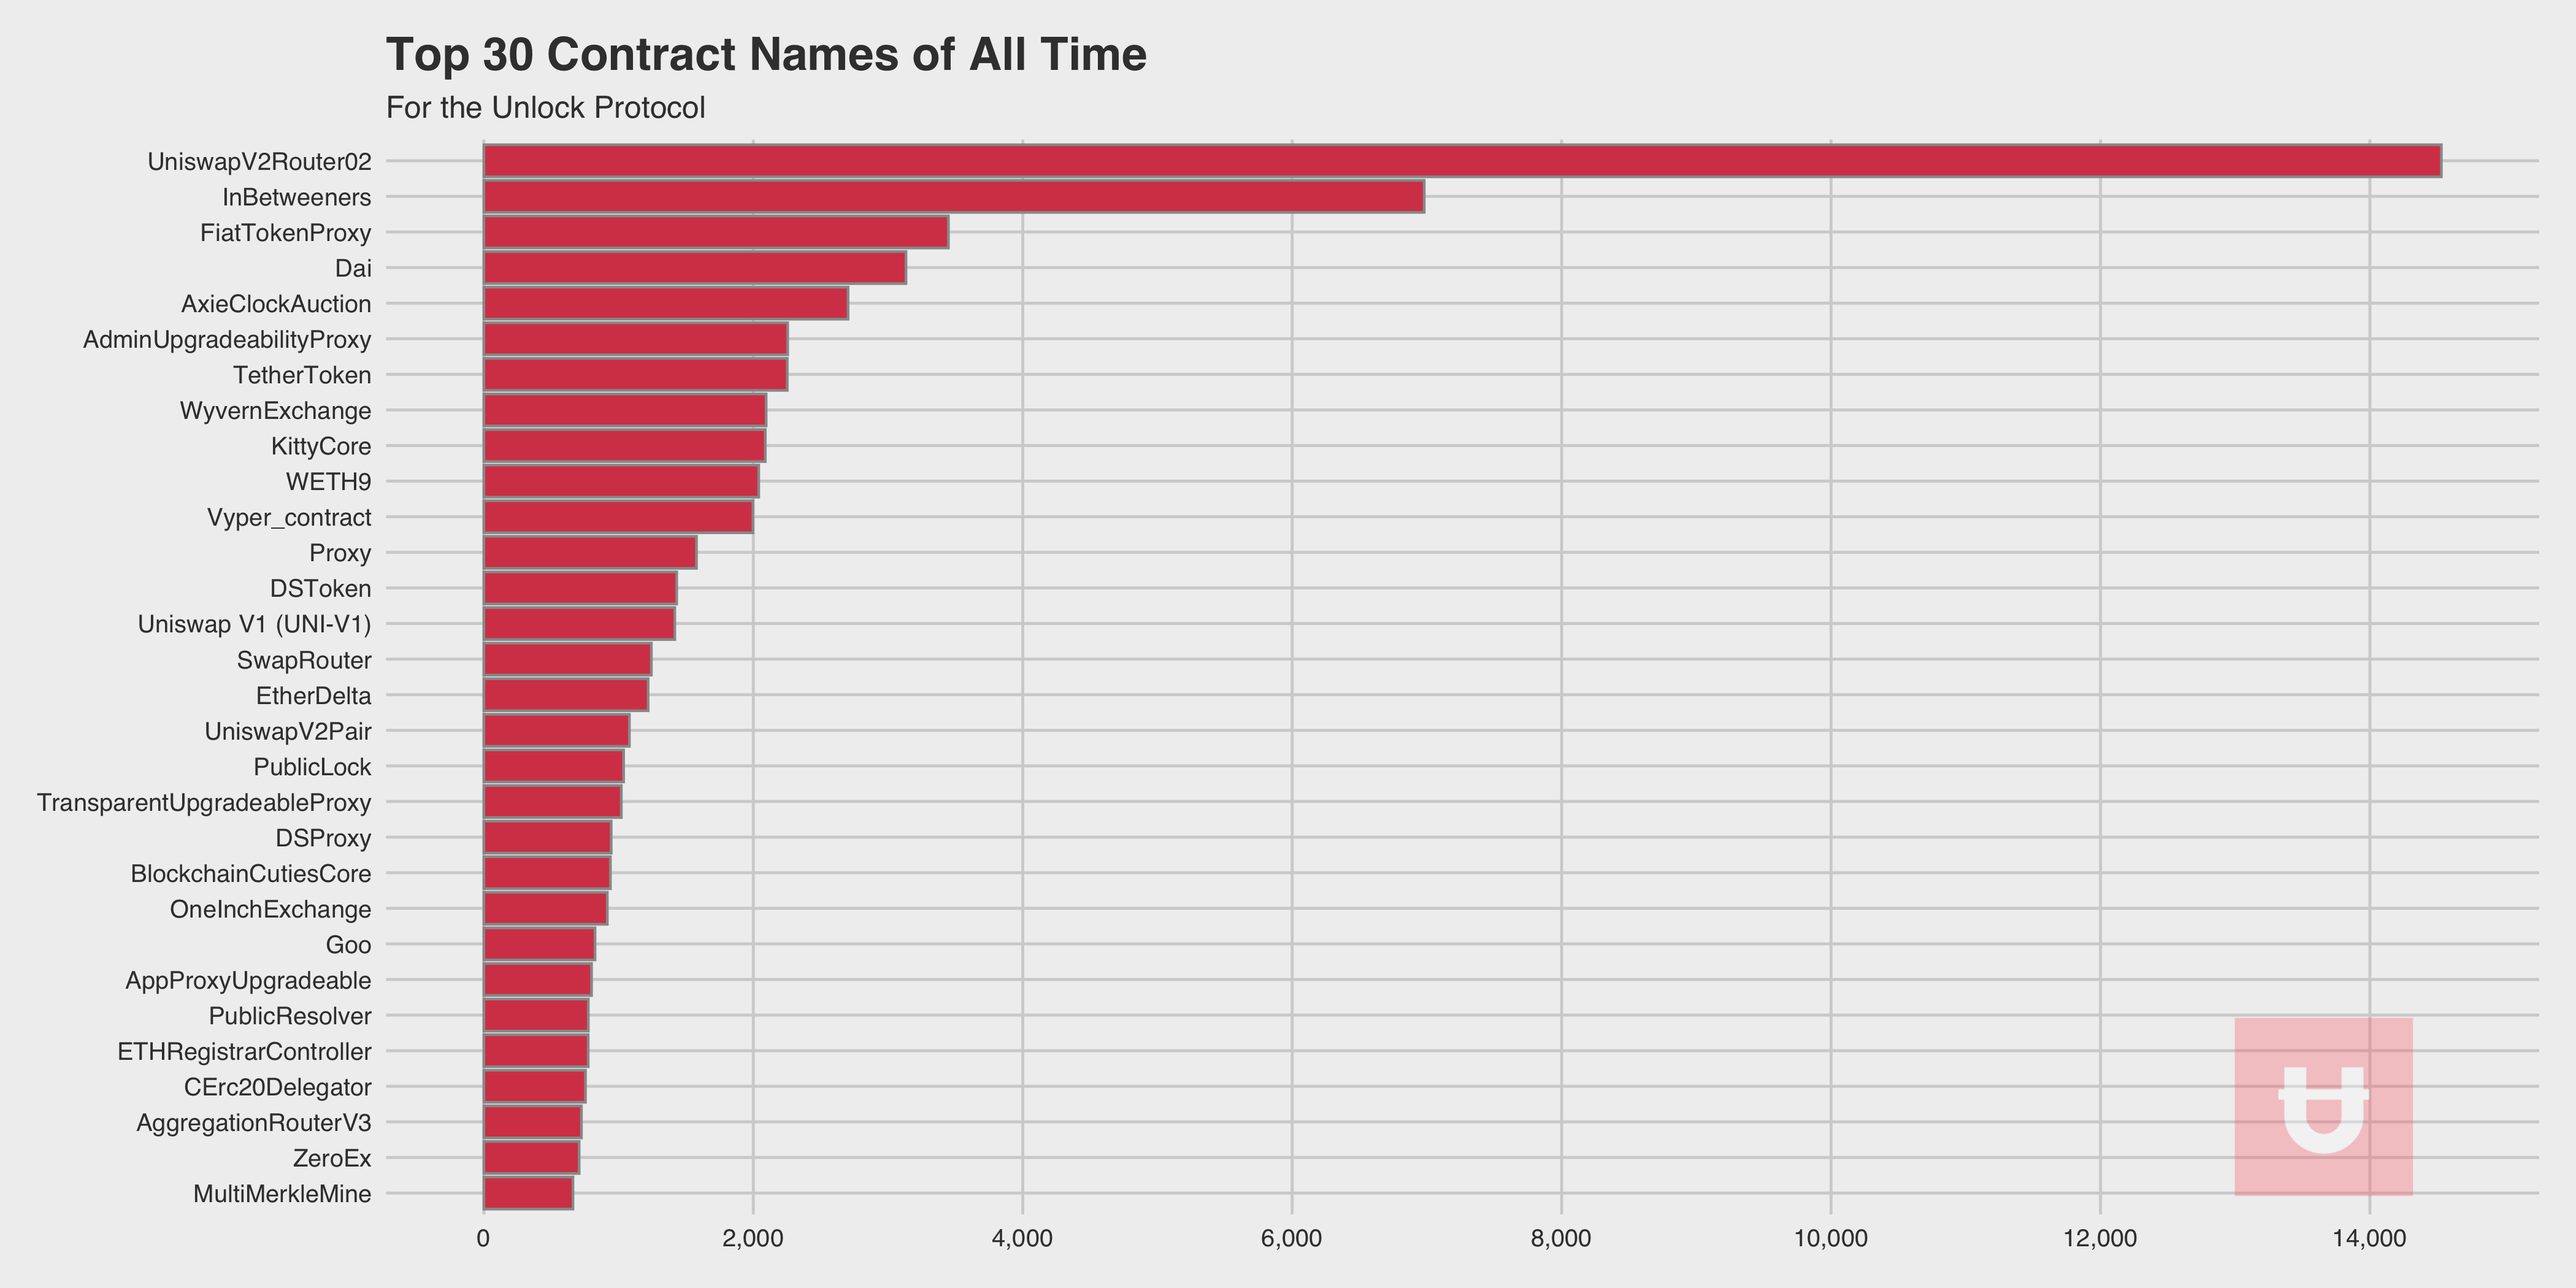
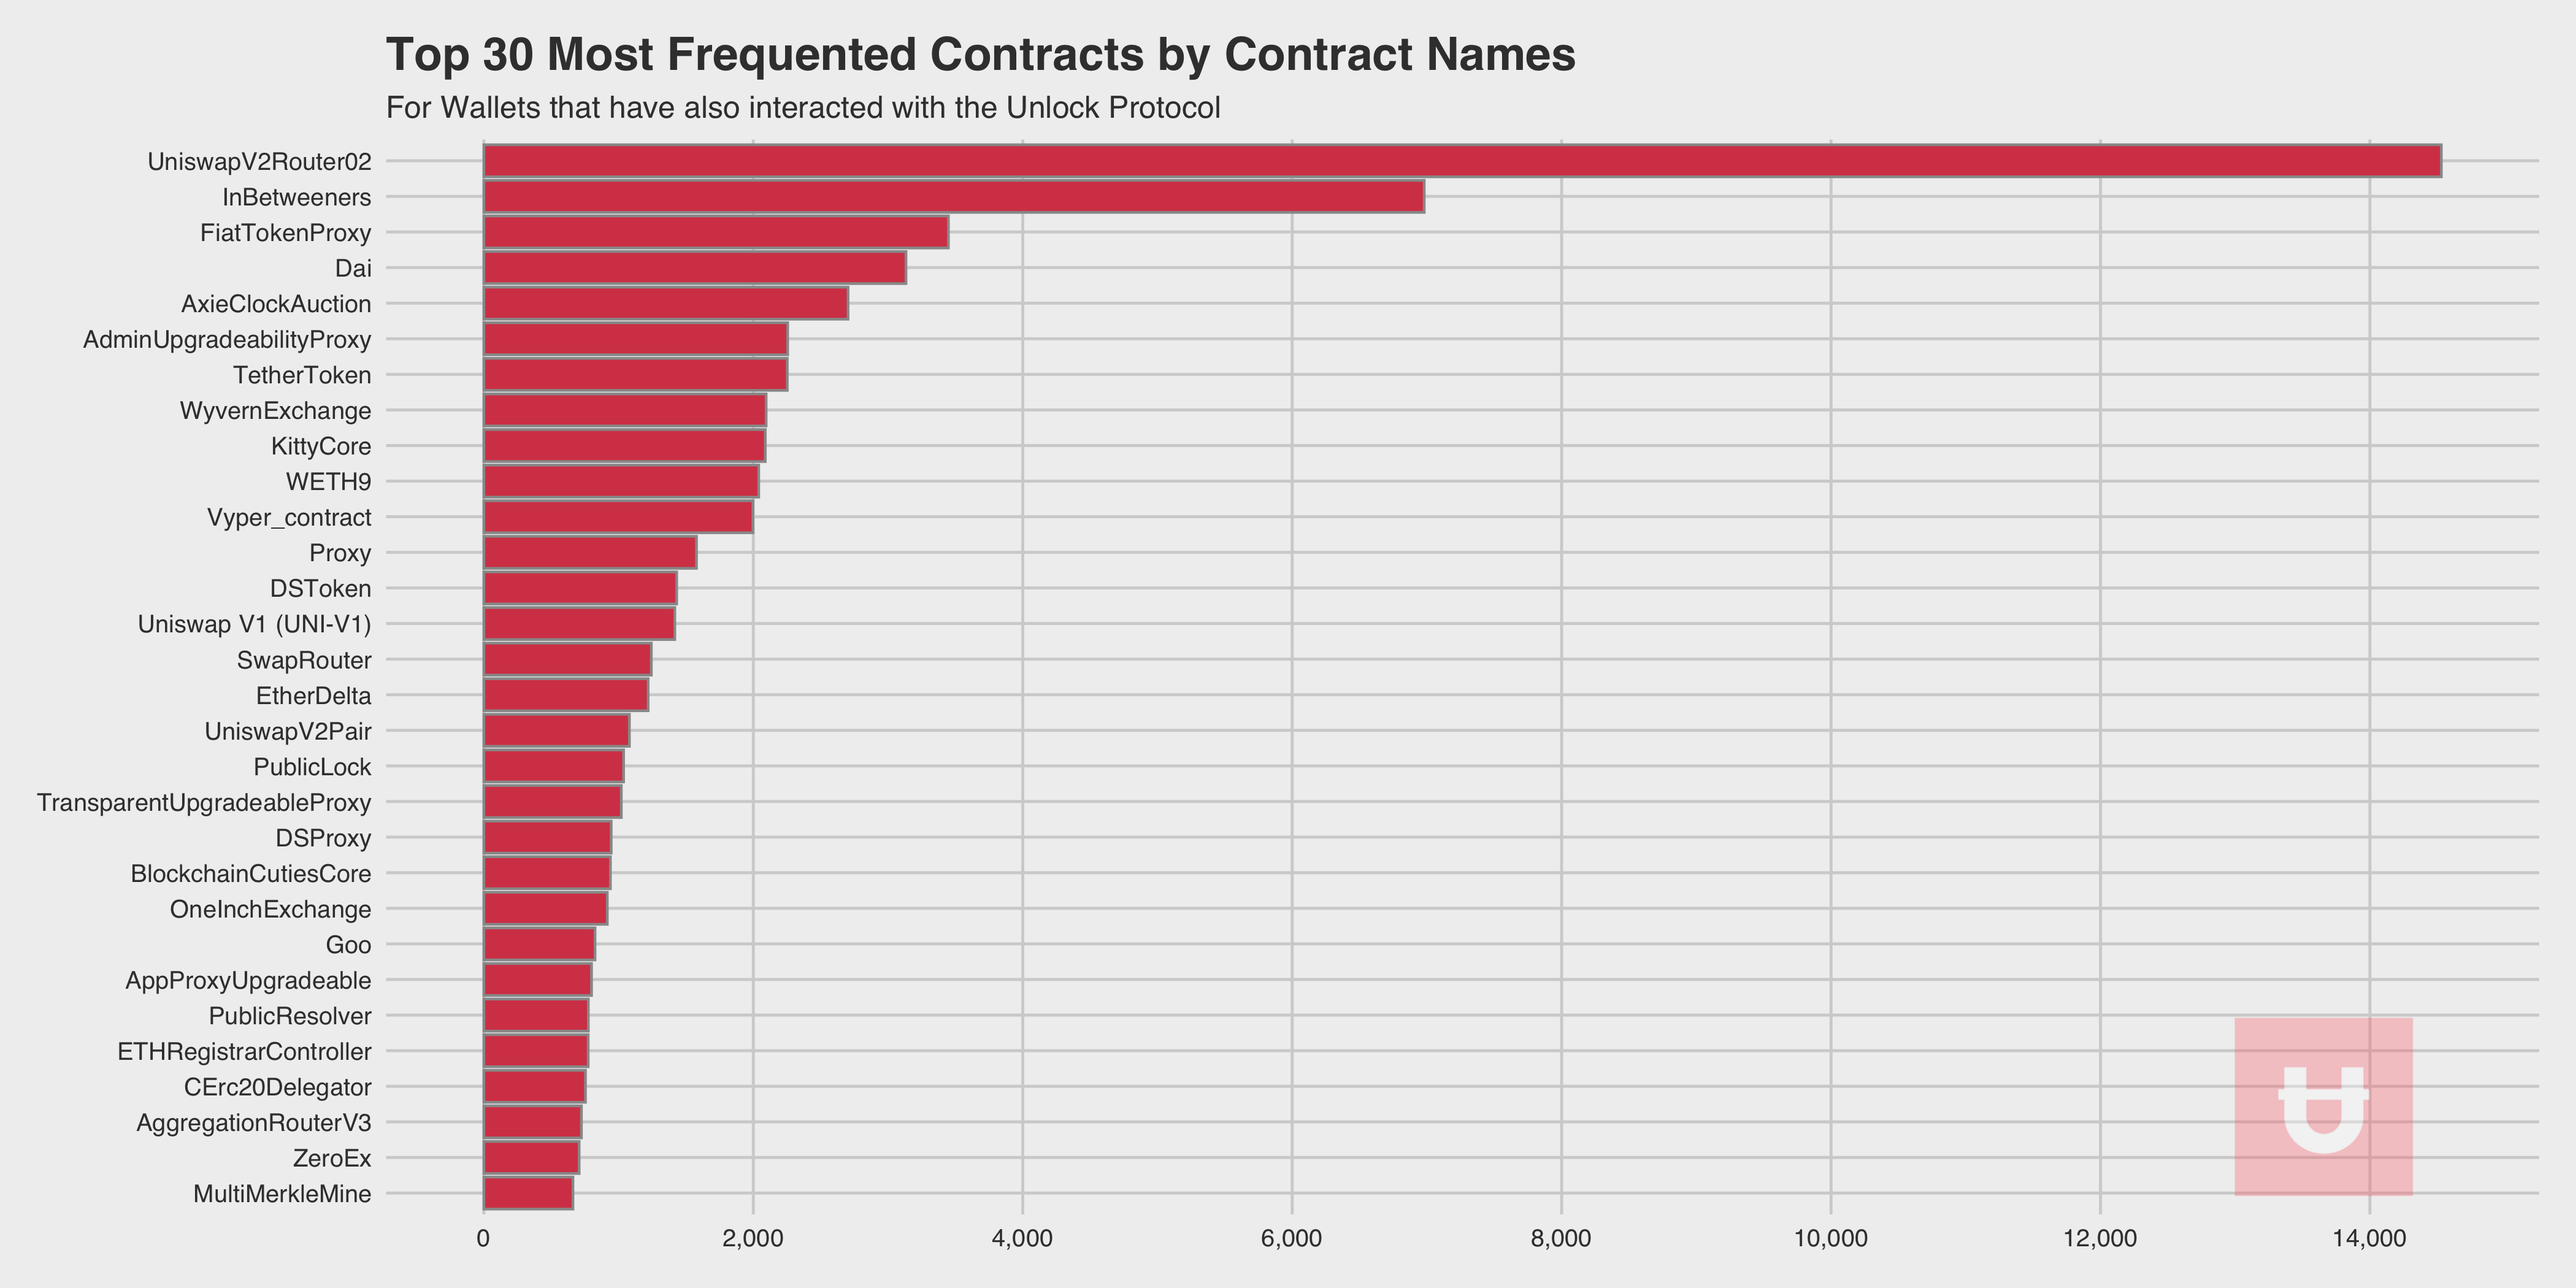
Update unlock info

Changed region(s): [[0.156, 0.031, 0.6238, 0.0929]]

diff --git a/case-studies/unlock-protocol/unlock.html b/case-studies/unlock-protocol/unlock.html
@@ -38,11 +38,13 @@ Unlike traditional paywall models, this is entirely decentralized and open sourc
 
 ## Unlock Contract
 
+To create gated content, developers make `createUpgradeableLockAtVersion` calls to the Unlock Contract at `0x3d5409cce1d45233de1d4ebdee74b8e004abdd13`.  Using these interactions with the contract as our data, we decided to do an exploration of who was using the Unlock Protocol and what other contracts might they be transacting with. 
+
 The contract we scraped data from was the following:
 
 https://etherscan.io/address/0x3d5409cce1d45233de1d4ebdee74b8e004abdd13
 
-We scraped all the accounts who had interacted with this contract
+We scraped all the accounts who had interacted with this contract.
 
 ![](transactions.png)
 
@@ -50,17 +52,17 @@ We scraped all the accounts who had interacted with this contract
 
 ## Unlock Contract Scraping
 
-Next, for those individual accounts, we browsed to their page and scraped all the addresses they have interacted with. Then we used those final contracts and scraped this info for each of those if it's a contract and skipped if an address.
+Next, for those individual accounts, we browsed to their page and scraped all the addresses they have interacted with. We then used those final contracts and scraped this info for each if it was a contract and skipped it if it was an address.
 
-Ultimately, the data is people who have interacted with the Unlock contract and have interacted with which other contracts.
+Ultimately, the final data set consisted of wallet addresses that interacted with the Unlock contract and all of the other contract addresses that wallet interacted with on the Ethereum blockchain.
 
 ![](final.png)
 
 ## Goals
 
-Using the scraped data, we wish to do some of the following:
+Using the scraped [data](https://github.com/Omni-Analytics-Group/eth-data-science-course/tree/master/case-studies/unlock-protocol/data), we wish to do the following:
 
-- Clean and process the data to make it suitable for analysis, as needed
+- Clean and process the data to make it suitable for analysis
 - Analyze both the aggregate and the over-time growth metrics of the Unlock Protocol
 - Get a feel for the number of unique contracts and wallets interacting with the protocol
 - Say something about the top tags names, and token trackers.
@@ -210,7 +212,7 @@ How has the number of transactions per month changed as a function of time?
 
 
 ```r
-p1 &lt;- unlock %&gt;%
+ghp1 &lt;- unlock %&gt;%
     mutate(Date = as_date(Time)) %&gt;%
     mutate(Date = ymd(paste(year(Date), month(Date), "01", sep = "-"))) %&gt;%
     group_by(Date) %&gt;%
@@ -240,7 +242,7 @@ We see a steady growth that accelerated in 2020, including a particularly large 
 
 ## Top Contract Tags
 
-Now let's compute the top contract tags:
+Now let's compute the list of the contracts most frequently interacted with that have been identified by the contract tag:
 
 
 ```r
@@ -256,8 +258,8 @@ p2 &lt;- unlock %&gt;%
         scale_x_continuous(labels = scales::comma, breaks = scales::pretty_breaks(n = 10)) +
         watermark_img("unlock.png", width = 70, location = "br", alpha = 0.3) +
         labs(
-            title = "Top 30 Contract Tags of All Time",
-            subtitle = "For the Unlock Protocol",
+            title = "Top 30 Most Interacted with Contracts identified by  Contract Tag",
+            subtitle = "For Wallets that have also interacted with the Unlock Protocol",
             y = "Contract Tag",
             x = "Number of Transactions"
         )
@@ -273,7 +275,7 @@ Towards the top of the list, we see Uniswap V2, USD Coin, and DAI, with Uniswap 
 
 ## Top Contract Names
 
-We can use nearly the same routine to look at the top contract names:
+We can use nearly the same routine to look at the top contracts, but this time by their names:
 
 
 ```r
@@ -289,8 +291,8 @@ p3 &lt;- unlock %&gt;%
         scale_x_continuous(labels = scales::comma, breaks = scales::pretty_breaks(n = 10)) +
         watermark_img("unlock.png", width = 70, location = "br", alpha = 0.3) +
         labs(
-            title = "Top 30 Contract Names of All Time",
-            subtitle = "For the Unlock Protocol",
+            title = "Top 30 Most Frequented Contracts by Contract Names",
+            subtitle = "For Wallets that have also interacted with the Unlock Protocol",
             y = "Contract Name",
             x = "Number of Transactions"
         )
@@ -298,7 +300,7 @@ p3 &lt;- unlock %&gt;%
 
 ---
 
-The story is much the same, with Uniswap at the top, followed by InBetweeners and FiatTokenProxy.
+The story is much the same, with Uniswap at the top, followed by the NFT project InBetweeners and the FiatTokenProxy for USDC.
 
 &lt;img src="unlock_files/figure-html/unnamed-chunk-12-1.png" style="display: block; margin: auto;" /&gt;
 
@@ -339,7 +341,7 @@ Now, InBetweeners rises to the top, and USDC + DAI round out the rest of the top
 
 ## Conclusion
 
-We hope you enjoyed this brief look into the Unlock Protocol and analyzing data on transactions associated with it from the blockchain. Be on the lookout for many more case studies coming down the pipeline!
+We hope you enjoyed this brief look into the Unlock Protocol and analyzing data on transactions associated with it from the blockchain. Be on the lookout for many more case studies coming down the pipeline and maybe even a grant where we'll take a much deeper dive into the data generated by the Unlock Protocol!
 
 &lt;br&gt;&lt;br&gt;
 &lt;div style='text-align: center'&gt;&lt;img src='unlock.png'&gt;&lt;/div&gt;
